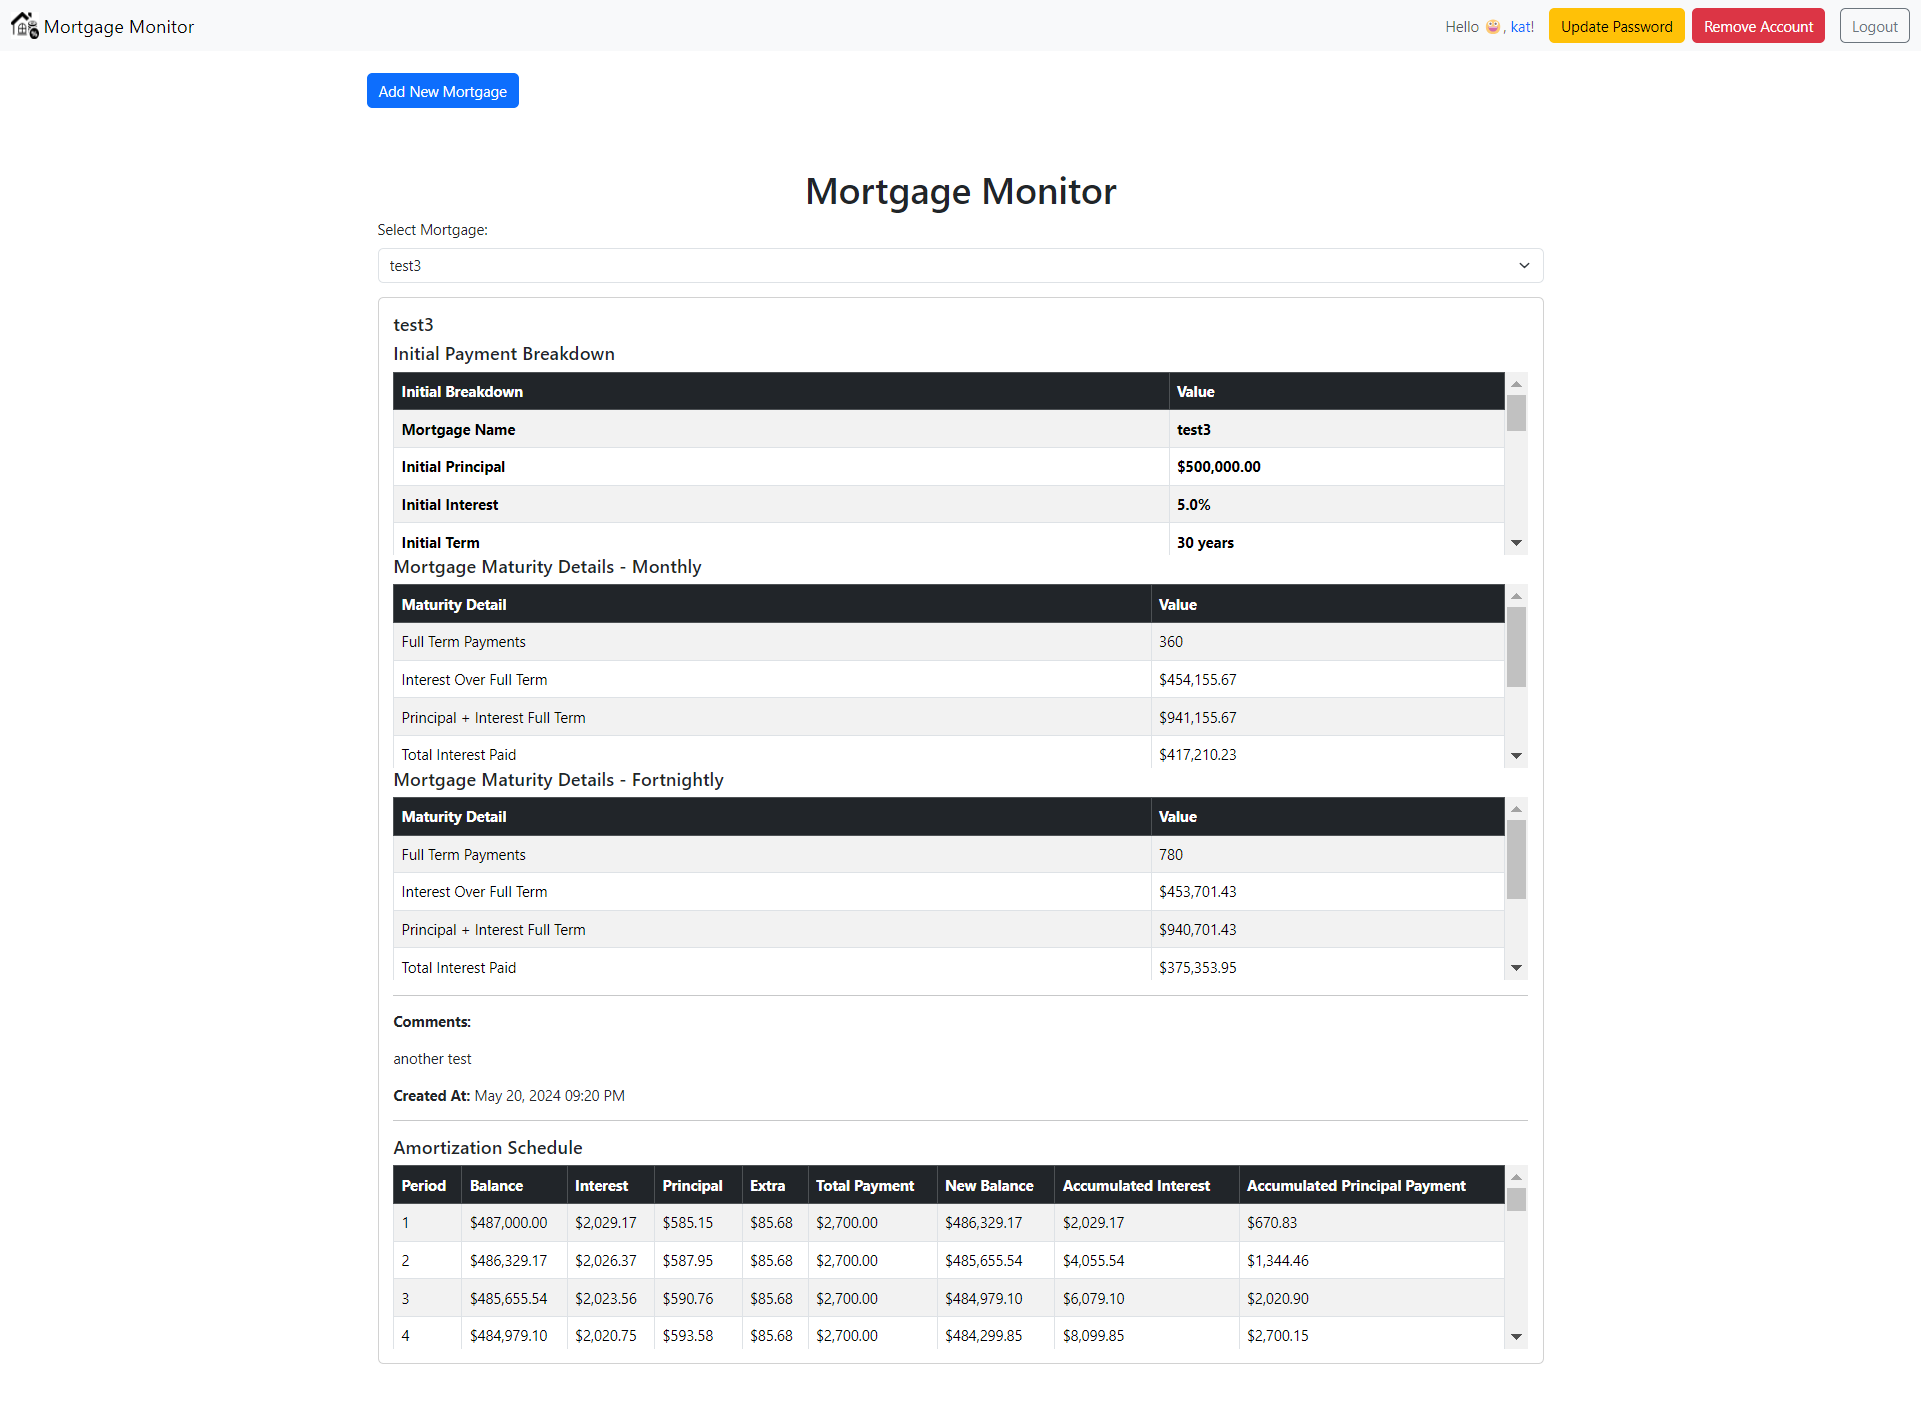
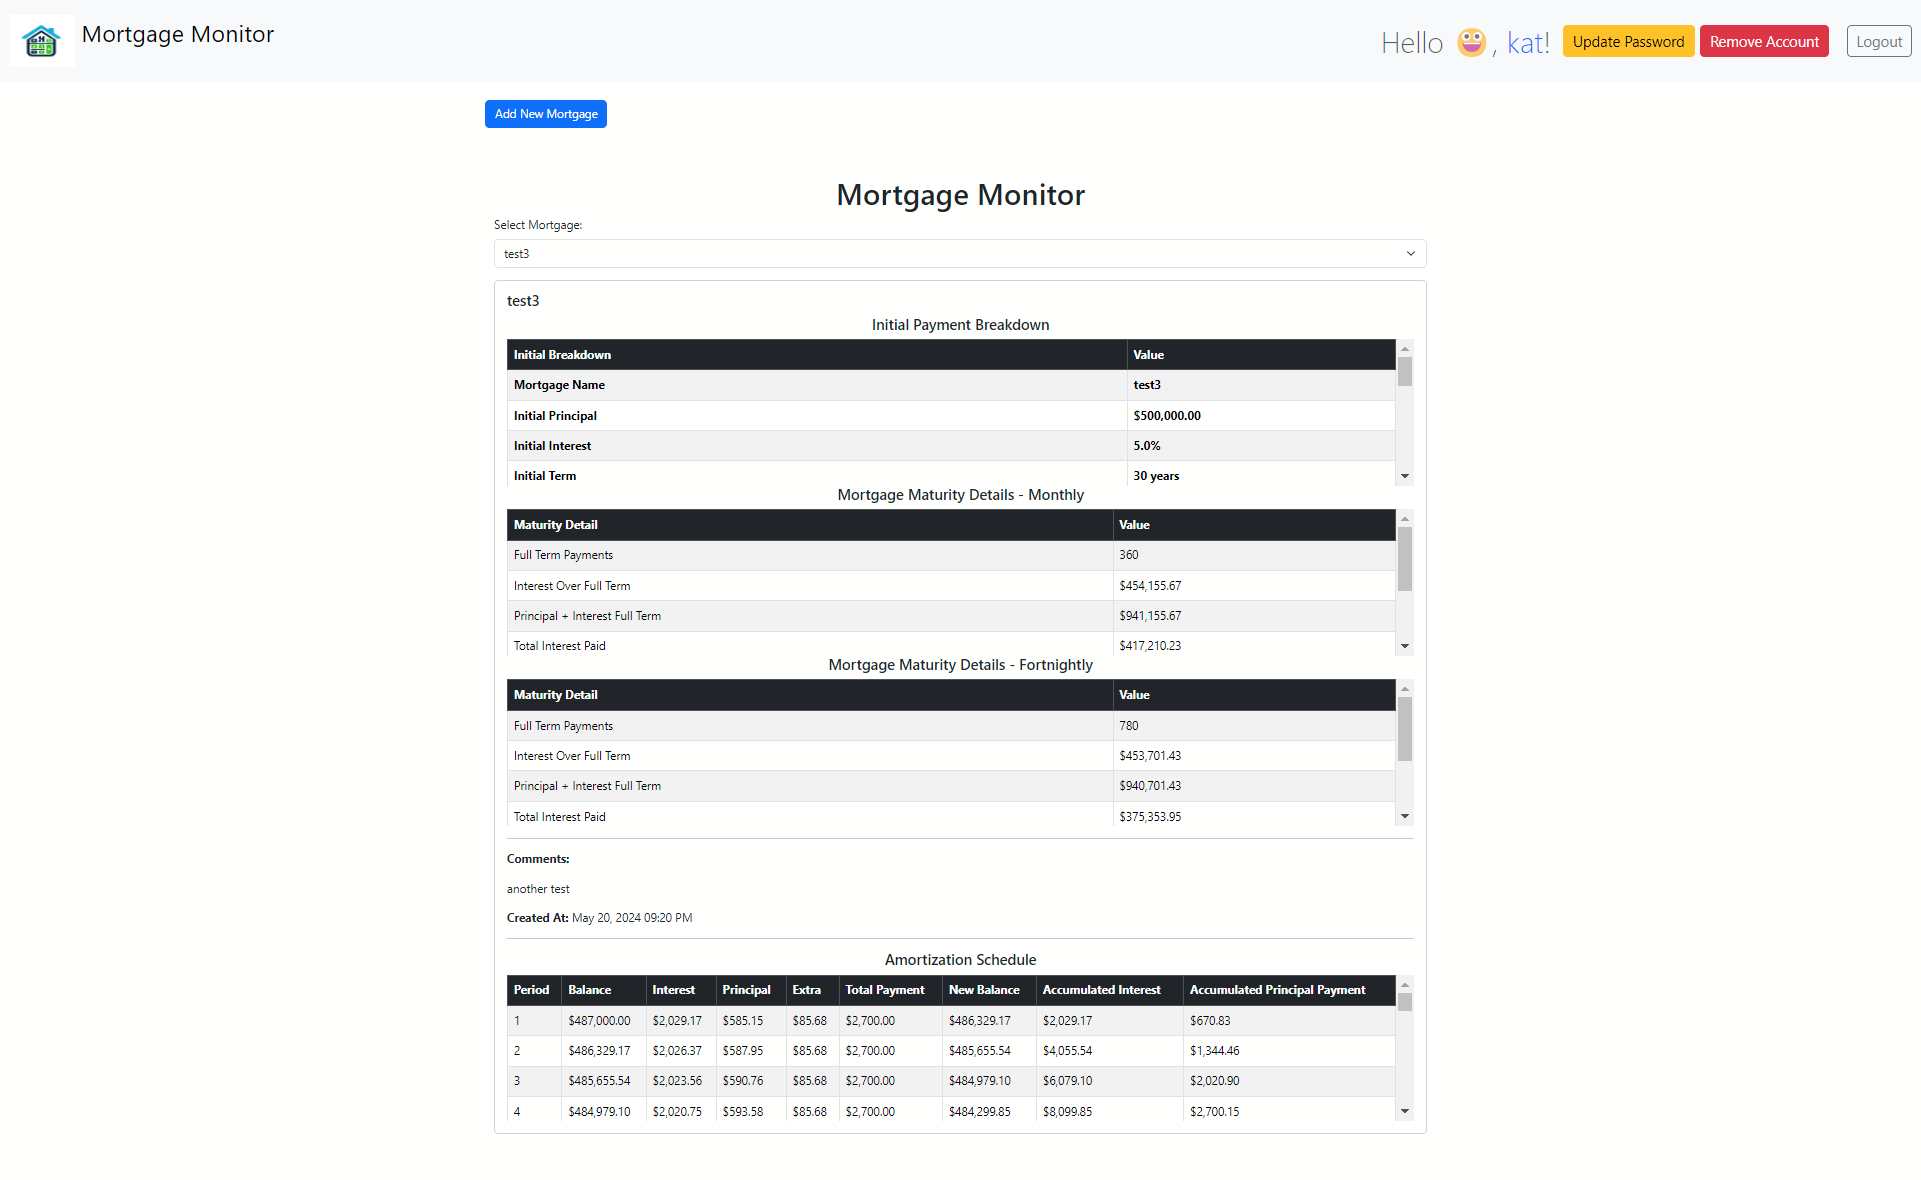
updated change request

diff --git a/templates/index.html b/templates/index.html
@@ -13,20 +13,22 @@
     </style>
 </head>
 <body class="bg-white">
-    <nav class="navbar navbar-light bg-light">
-        <div class="container-fluid">
-            <a class="navbar-brand" href="#">
-                <img src="/static/mortgage_calculator_logo.png" alt="Logo" width="30" height="30" class="d-inline-block align-top">
-                Mortgage Monitor
-            </a>
-            <div class="d-flex align-items-center">
-                <span class="navbar-text me-3">Hello &#128512;, <span class="text-primary">{{ username }}</span>!</span>
-                <button class="btn btn-warning me-2" id="updatePasswordBtn">Update Password</button>
-                <button class="btn btn-danger" id="removeAccountBtn">Remove Account</button>
-                <a class="btn btn-outline-secondary ms-3" href="{{ url_for('logout') }}">Logout</a>
-            </div>
+      <nav class="navbar navbar-light bg-light py-3">
+    <div class="container-fluid">
+        <a class="navbar-brand fs-2" href="#">
+            <img src="/static/mortgage_calculator_logo.png" alt="Logo" width="90" height="70" class="d-inline-block align-top">
+            Mortgage Monitor
+        </a>
+        <div class="d-flex align-items-center">
+            <span class="navbar-text me-3 display-6">Hello &#128512;, <span class="text-primary display-6">{{ username }}</span>!</span>
+            <button class="btn btn-warning me-2 fs-5" id="updatePasswordBtn">Update Password</button>
+            <button class="btn btn-danger me-2 fs-5" id="removeAccountBtn">Remove Account</button>
+            <a class="btn btn-outline-secondary ms-3 fs-5" href="{{ url_for('logout') }}">Logout</a>
         </div>
-    </nav>
+    </div>
+</nav>
+
+
 
     <div class="container mt-4">
         <div class="d-flex justify-content-between align-items-center mb-3">
@@ -57,7 +59,7 @@
                         <h5 class="card-title">{{ mortgage.mortgage_name }}</h5>
 
                         <!-- initial payment -->
-                        <h5>Initial Payment Breakdown</h5>
+                        <h5 class=" text-center">Initial Payment Breakdown</h5>
                         <div class="table-responsive scrollable-table">
                             <table class="table table-striped table-bordered table-hover">
                                 <thead class="table-dark">
@@ -140,7 +142,7 @@
                         </div>
 
                         <!-- maturity Details - monthly -->
-                        <h5>Mortgage Maturity Details - Monthly</h5>
+                        <h5 class=" text-center">Mortgage Maturity Details - Monthly</h5>
                         <div class="table-responsive scrollable-table">
                             <table class="table table-striped table-bordered table-hover">
                                 <thead class="table-dark">
@@ -183,7 +185,7 @@
                         </div>
 
                         <!-- maturity fortnightly -->
-                        <h5>Mortgage Maturity Details - Fortnightly</h5>
+                        <h5 class=" text-center" >Mortgage Maturity Details - Fortnightly</h5>
                         <div class="table-responsive scrollable-table">
                             <table class="table table-striped table-bordered table-hover">
                                 <thead class="table-dark">
@@ -234,7 +236,7 @@
 
                         <!-- amortization -->
                         <hr>
-                        <h5>Amortization Schedule</h5>
+                        <h5 class=" text-center" >Amortization Schedule</h5>
                         <div class="table-responsive scrollable-table">
                             <table class="table table-striped table-bordered table-hover">
                                 <thead class="table-dark">
